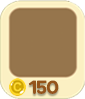
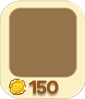
hyokyoung@update: 이미지 리소스 수정, 스크립트 씬 수정.

Changed region(s): [[0.0941, 0.7879, 0.3059, 0.9697]]

diff --git a/nyangcoo/GameScene.cpp b/nyangcoo/GameScene.cpp
@@ -96,7 +96,7 @@ void GameScene::InitGoldBar()
 {
 	goldBg = new StaticObject();
 	goldBg->AssetFileName = TEXT("goldbar\\goldbar_bg.png");
-	goldBg->ImgRC = Rect(0, 0, 417, 113);
+	goldBg->ImgRC = Rect(0, 0, 414, 102);
 	goldBg->ViewRC = goldBg->ImgRC;
 	goldBg->x = 10;
 	goldBg->y = 10;
@@ -207,8 +207,8 @@ void GameScene::printGold(int _gold, Graphics* pGraphics)
 	StaticObject* ic = new StaticObject();
 	ic->Objtype = eObjectType_None;
 	ic->AssetFileName = TEXT("goldbar\\gold_icon.png");
-	ic->ImgRC = Rect(0, 0, 19, 22);
-	ic->ViewRC = Rect(0, 0, 40, 37);
+	ic->ImgRC = Rect(0, 0, 40, 39);
+	ic->ViewRC = Rect(0, 0, 40, 39);
 	ic->ViewRC.X = goldBg->x + 100;
 	ic->ViewRC.Y = goldBg->y + 40;
 

diff --git a/nyangcoo/ScriptScene.cpp b/nyangcoo/ScriptScene.cpp
@@ -41,7 +41,7 @@ void ScriptScene::Init()
 	ScriptPlayer->y = 389;
 
 	Btn* ChoiceBtn1 = new Btn();
-	ChoiceBtn1->ID = eScene_Game;
+	ChoiceBtn1->ID = eScene_ChapterSelect;
 	ChoiceBtn1->AssetFileName = TEXT("ChoiceBtn.png");
 	ChoiceBtn1->ImgRC = Rect(0, 0, 935, 50);
 	ChoiceBtn1->ViewRC = ChoiceBtn1->ImgRC;
@@ -49,7 +49,7 @@ void ScriptScene::Init()
 	ChoiceBtn1->y = 522;
 
 	Btn* ChoiceBtn2 = new Btn();
-	ChoiceBtn2->ID = eScene_Exit;
+	ChoiceBtn2->ID = eScene_ChapterSelect;
 	ChoiceBtn2->AssetFileName = TEXT("ChoiceBtn.png");
 	ChoiceBtn2->ImgRC = Rect(0, 0, 935, 50);
 	ChoiceBtn2->ViewRC = ChoiceBtn2->ImgRC;
